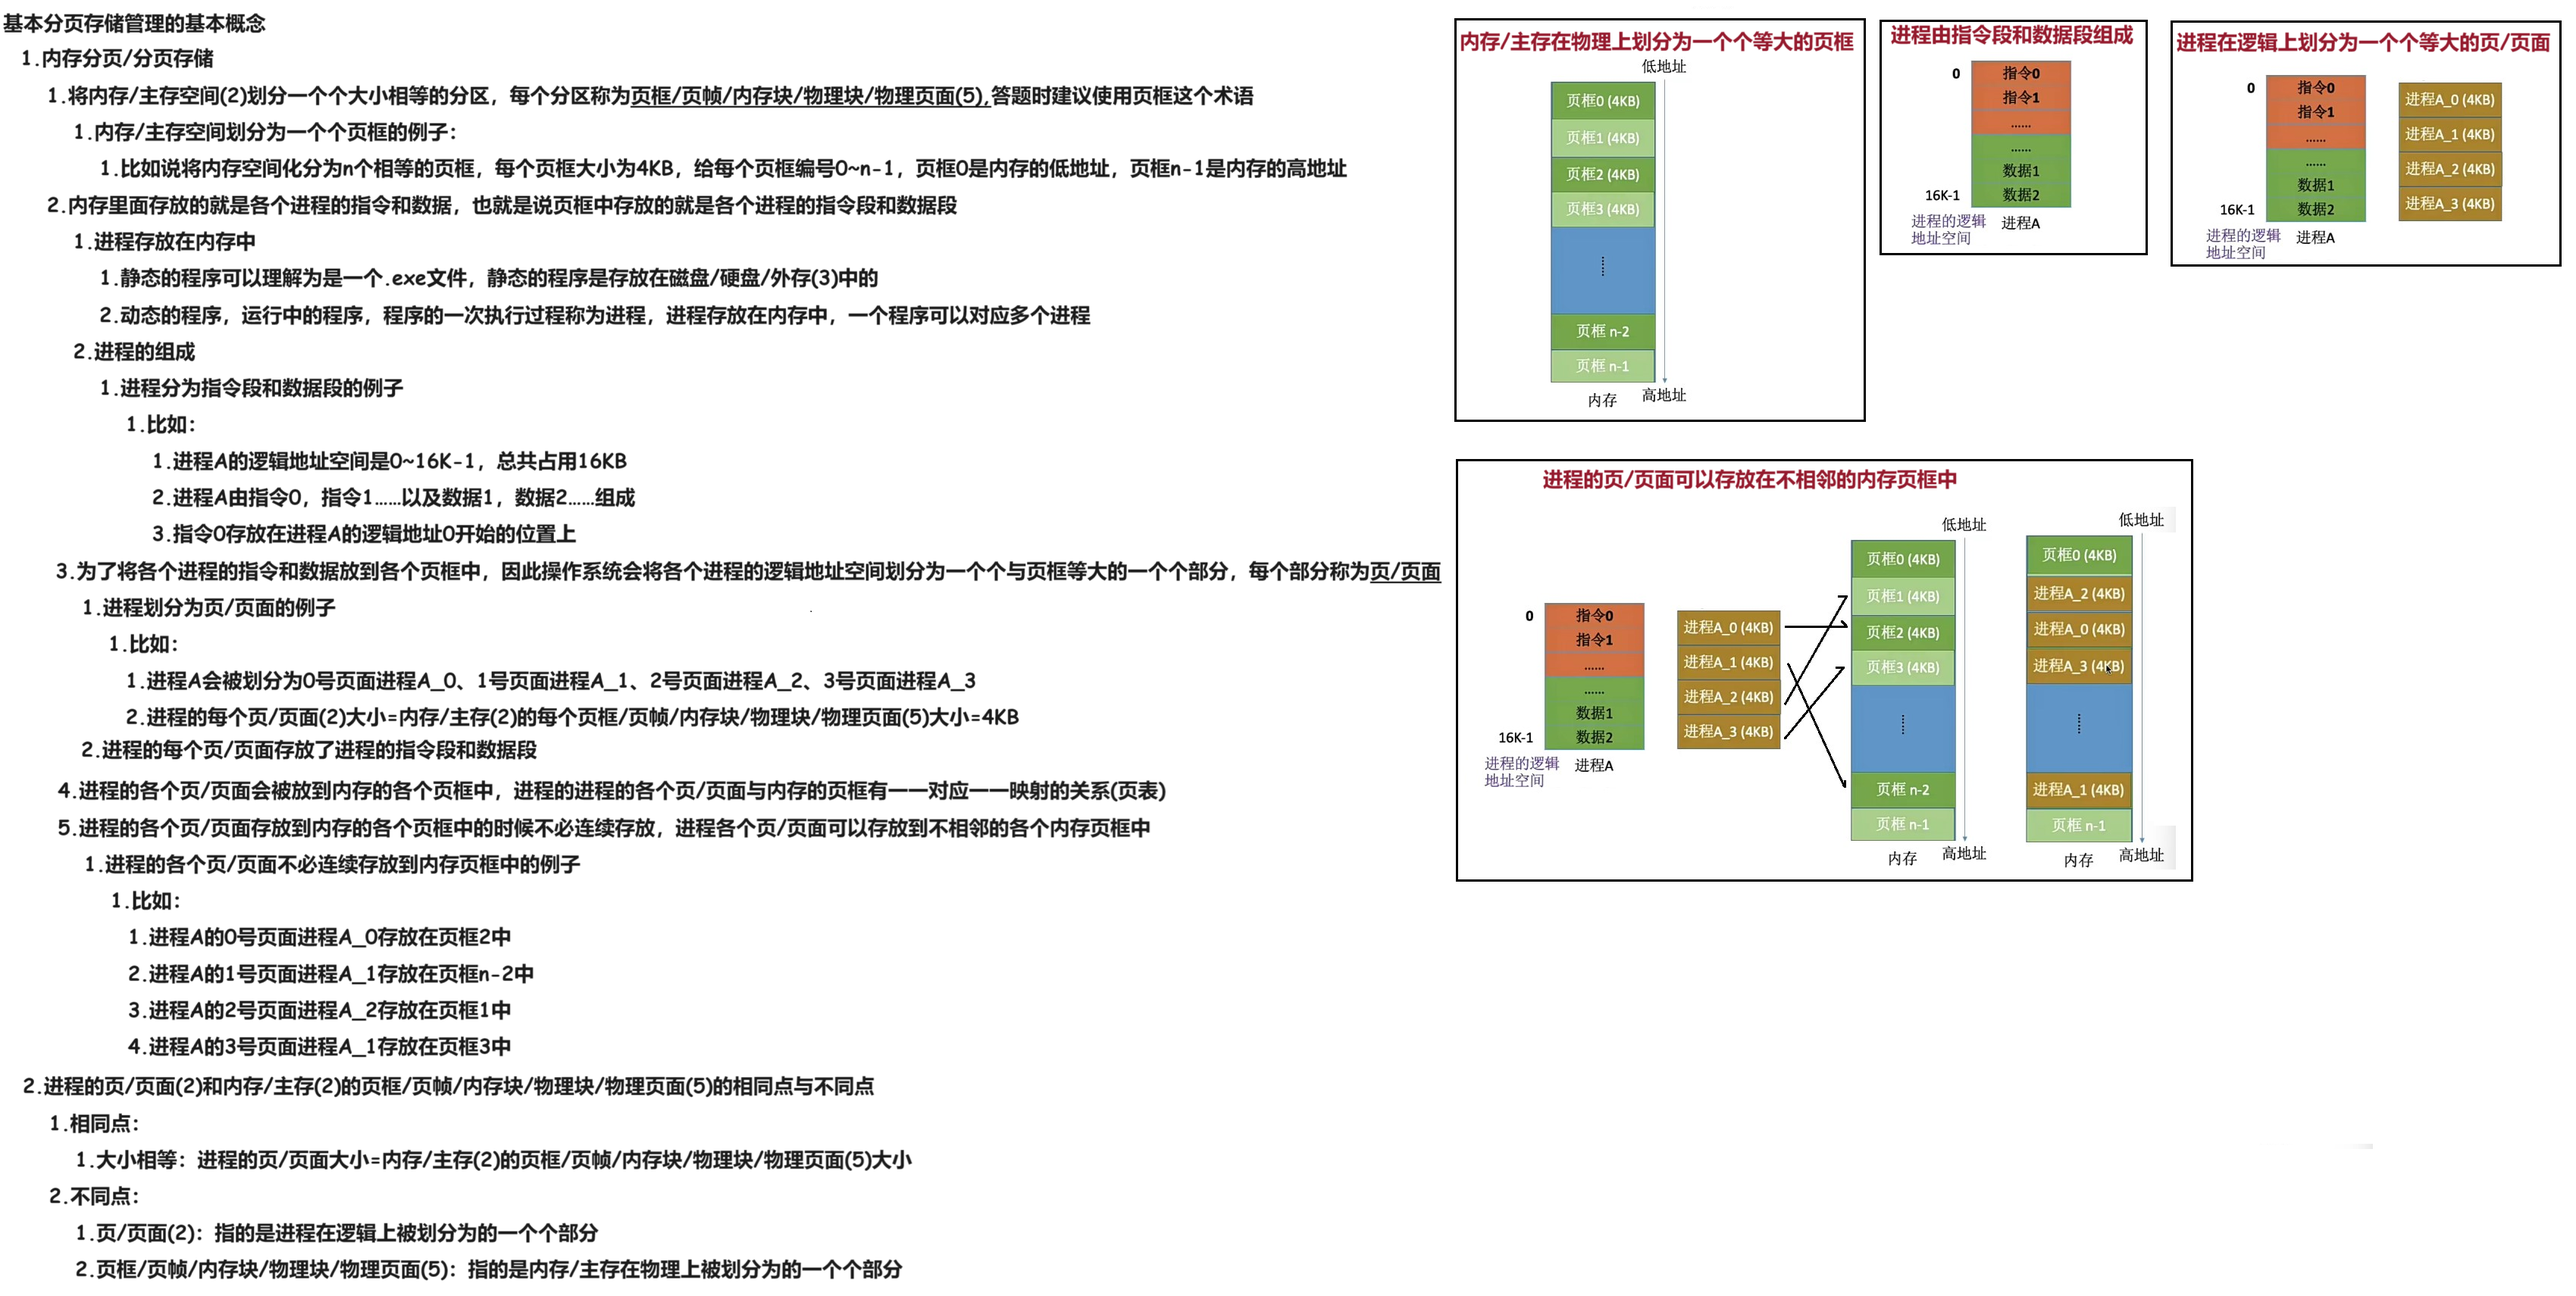
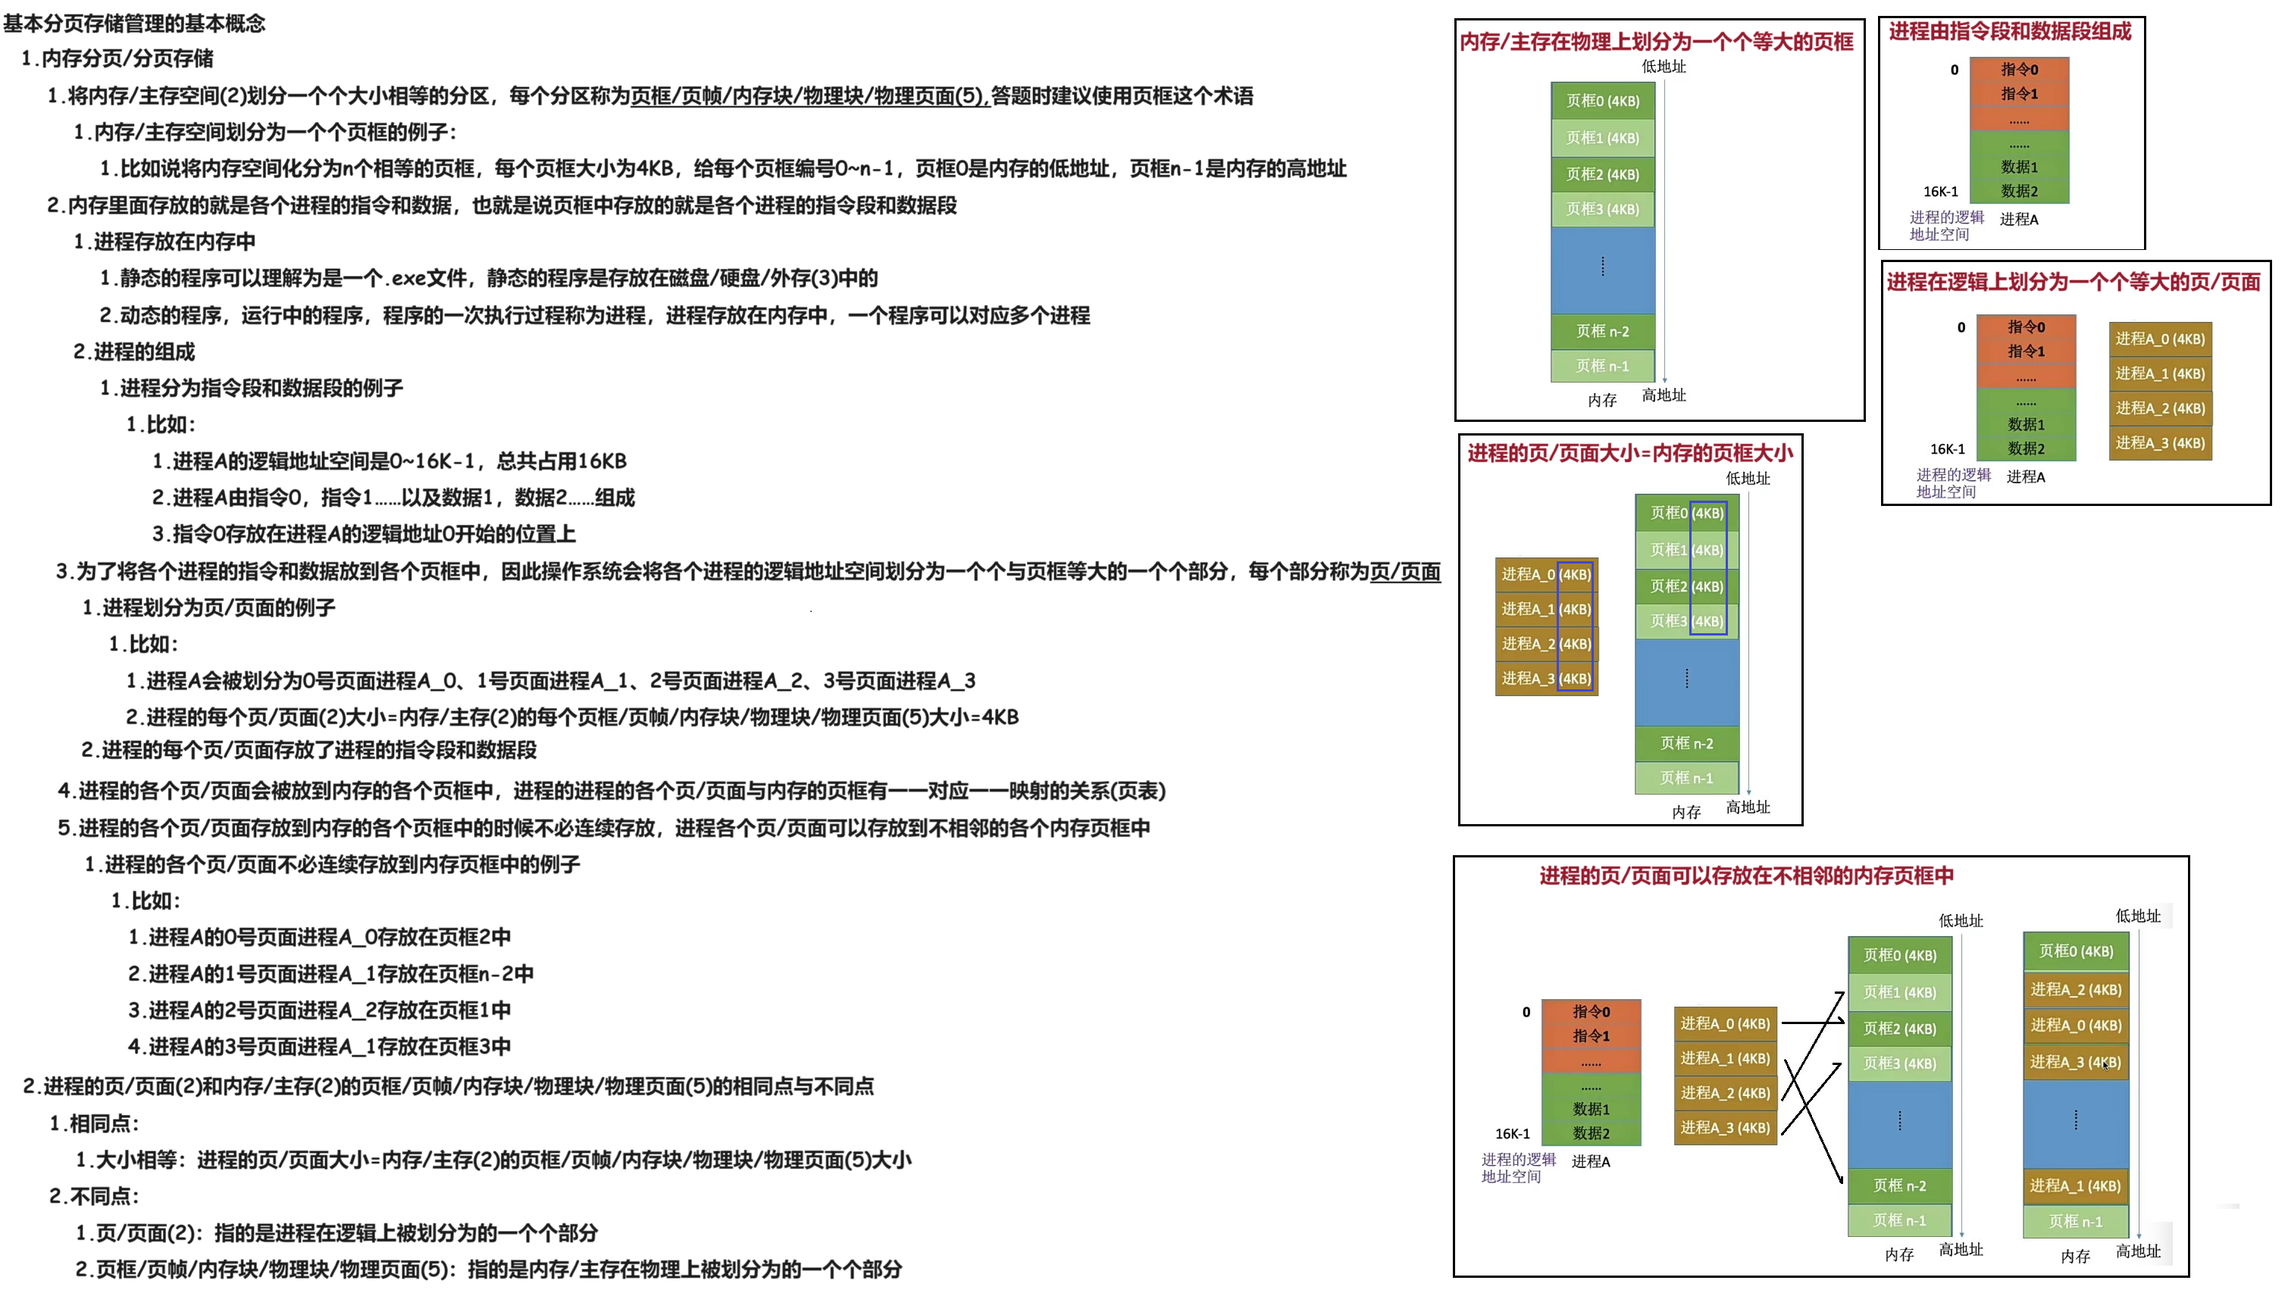
240221

Changed region(s): [[0.0, 0.0, 0.9964, 0.9912], [0.6539, 0.7124, 0.9652, 0.9912]]

diff --git a/02 OS知识点/04 第四章 文件系统大题/06 基础视频 文件的物理结构 文件的分配方式(上)/02 Doc.md b/02 OS知识点/04 第四章 文件系统大题/06 基础视频 文件的物理结构 文件的分配方式(上)/02 Doc.md
@@ -28,7 +28,7 @@
 
 *  [01 基础视频 基本分页存储管理的基本概念 240221](..\..\03 第三章 内存管理大题\01 基础视频 基本分页存储管理的基本概念 240221) 
 
-<img src="https://cvp.oss-cn-shanghai.aliyuncs.com/picgo/202402211045575.png" alt="03 内存分页" style="zoom:50%;" />
+<img src="https://cvp.oss-cn-shanghai.aliyuncs.com/picgo/202402211054880.png" alt="image-20240221105446493" style="zoom:50%;" />
 
 
 

diff --git a/02 OS知识点/03 第三章 内存管理大题/01 基础视频 基本分页存储管理的基本概念 240221/01 Doc.md b/02 OS知识点/03 第三章 内存管理大题/01 基础视频 基本分页存储管理的基本概念 240221/01 Doc.md
@@ -4,7 +4,7 @@
 
 ## 01 分页存储
 
-<img src="https://cvp.oss-cn-shanghai.aliyuncs.com/picgo/202402211044787.png" alt="image-20240221104422301" style="zoom:50%;" />
+![image-20240221105516728](https://cvp.oss-cn-shanghai.aliyuncs.com/picgo/202402211055075.png)
 
 
 
